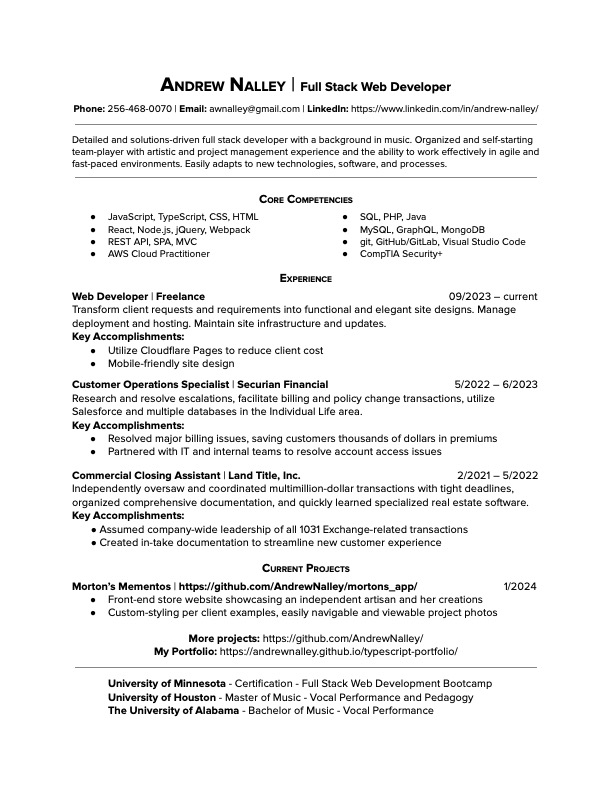
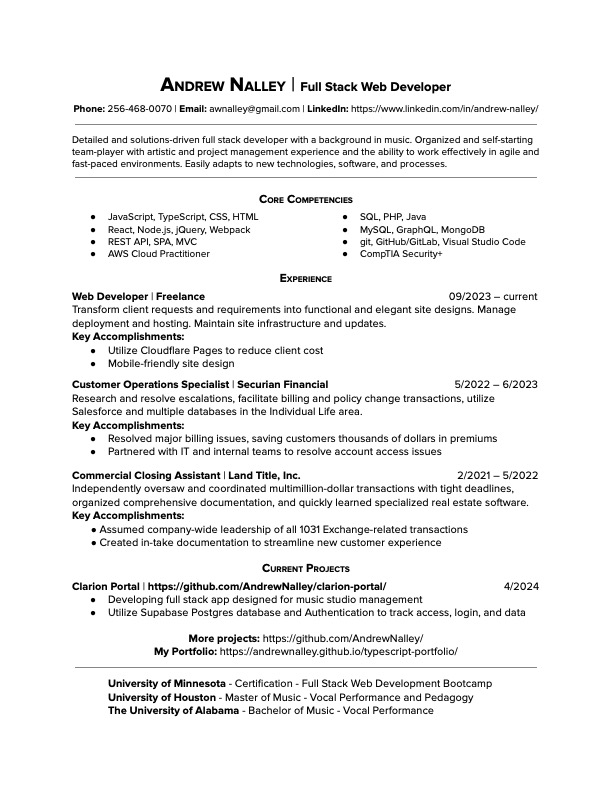
add clarion project, update resume

Changed region(s): [[0.1242, 0.7273, 0.8693, 0.7879]]

diff --git a/src/pages/Portfolio.tsx b/src/pages/Portfolio.tsx
@@ -1,20 +1,22 @@
-import { LazyLoadImage } from 'react-lazy-load-image-component';
-import 'react-lazy-load-image-component/src/effects/blur.css';
+import { LazyLoadImage } from 'react-lazy-load-image-component'
+import 'react-lazy-load-image-component/src/effects/blur.css'
 // photos and links
-import dreamscape from '../images/dreamscape.png';
-import employeeTracker from '../images/employee-tracker-photo.png';
-import weatherDashboard from '../images/weather-dashboard.png';
-import pokemonGame from '../images/pokemon-game.png';
-import logoMaker from '../images/logo-maker.png';
-import noteTaker from '../images/note-taker.png';
-import portfolioPhoto from '../images/portfolio.png';
-const proj1Link = "https://whispering-crag-58704-755d34513186.herokuapp.com/";
-const proj2Link = "https://github.com/AndrewNalley/employee-tracker";
-const proj3Link = "https://andrewnalley.github.io/weather-dashboard/";
-const proj4Link = "https://2meng.github.io/Whos-that-pokemon/";
-const proj5Link = "https://github.com/AndrewNalley/logo-maker";
-const proj6Link = "https://aqueous-springs-29735-51eb1397bb8e.herokuapp.com/";
-const proj7Link = "https://github.com/AndrewNalley/typescript-portfolio";
+import frenchHorn from '../images/french-horn.jpg'
+import dreamscape from '../images/dreamscape.png'
+import employeeTracker from '../images/employee-tracker-photo.png'
+import weatherDashboard from '../images/weather-dashboard.png'
+import pokemonGame from '../images/pokemon-game.png'
+import logoMaker from '../images/logo-maker.png'
+import noteTaker from '../images/note-taker.png'
+import portfolioPhoto from '../images/portfolio.png'
+const proj1Link = 'https://github.com/AndrewNalley/clarion-portal'
+const proj2Link = 'https://whispering-crag-58704-755d34513186.herokuapp.com/'
+const proj3Link = 'https://github.com/AndrewNalley/employee-tracker'
+const proj4Link = 'https://andrewnalley.github.io/weather-dashboard/'
+const proj5Link = 'https://2meng.github.io/Whos-that-pokemon/'
+const proj6Link = 'https://github.com/AndrewNalley/logo-maker'
+const proj7Link = 'https://aqueous-springs-29735-51eb1397bb8e.herokuapp.com/'
+const proj8Link = 'https://github.com/AndrewNalley/typescript-portfolio'
 
 
 function Portfolio() {
@@ -22,7 +24,16 @@ function Portfolio() {
         <section className="container">
             <h4 className='heading-center'>Portfolio</h4>
             <article className='grid'>
-                <a id='proj-1' href={proj1Link}>
+            <a id='proj-1' href={proj1Link}>
+                    
+                    <LazyLoadImage
+                        className='proj-photo'
+                        effect='blur'
+                        src={frenchHorn} 
+                        alt="dreamscape" />
+                    <h3>Student Database Portal for Music Teacher</h3>
+                </a>
+                <a id='proj-2' href={proj2Link}>
                     
                     <LazyLoadImage
                         className='proj-photo'
@@ -31,7 +42,7 @@ function Portfolio() {
                         alt="dreamscape" />
                     <h3>Create calming and inspirational environments</h3>
                 </a>
-                <a id='proj-2' href={proj2Link}>
+                <a id='proj-3' href={proj3Link}>
                   
                     <LazyLoadImage
                         className='proj-photo'
@@ -40,7 +51,7 @@ function Portfolio() {
                         alt='employee-tracker' />
                     <h3>Command-line employee tracking application</h3>
                 </a>
-                <a id='proj-3' href={proj3Link}>
+                <a id='proj-4' href={proj4Link}>
                     <LazyLoadImage
                         className='proj-photo'
                         effect='blur'
@@ -50,7 +61,7 @@ function Portfolio() {
                 </a>
             </article>
             <article className='grid'>
-                <a id='proj-4' href={proj4Link}>
+                <a id='proj-5' href={proj5Link}>
                     <LazyLoadImage 
                     className='proj-photo' 
                     effect='blur' 
@@ -58,7 +69,7 @@ function Portfolio() {
                     alt='pokemon-game' />
                     <h3>Test your pokémon knowledge!</h3>
                 </a>
-                <a id='proj-5' href={proj5Link}>
+                <a id='proj-6' href={proj6Link}>
                     <LazyLoadImage 
                     className='proj-photo' 
                     effect='blur' 
@@ -66,7 +77,7 @@ function Portfolio() {
                     alt='logo-maker' />
                     <h3>Simple logos are so hot right now. Quickly generate an SVG logo!</h3>
                 </a>
-                <a id='proj-6' href={proj6Link}>
+                <a id='proj-7' href={proj7Link}>
                     <LazyLoadImage 
                     className='proj-photo' 
                     effect='blur' 
@@ -74,7 +85,7 @@ function Portfolio() {
                     alt='note-taker' />
                     <h3>Use to write and save notes</h3>
                 </a>
-                <a id='proj-7' href={proj7Link}>
+                <a id='proj-8' href={proj8Link}>
                     <LazyLoadImage 
                     className='proj-photo' 
                     effect='blur' 

diff --git a/src/pages/Resume.tsx b/src/pages/Resume.tsx
@@ -1,6 +1,6 @@
 import { LazyLoadImage } from 'react-lazy-load-image-component';
-import ResumeJPG from '../images/DevResume.jpg'
 import ResumePDF from '../images/DevResume.pdf'
+import ResumeJPG from '../images/DevResume.jpg'
 
 function Resume() {
 
